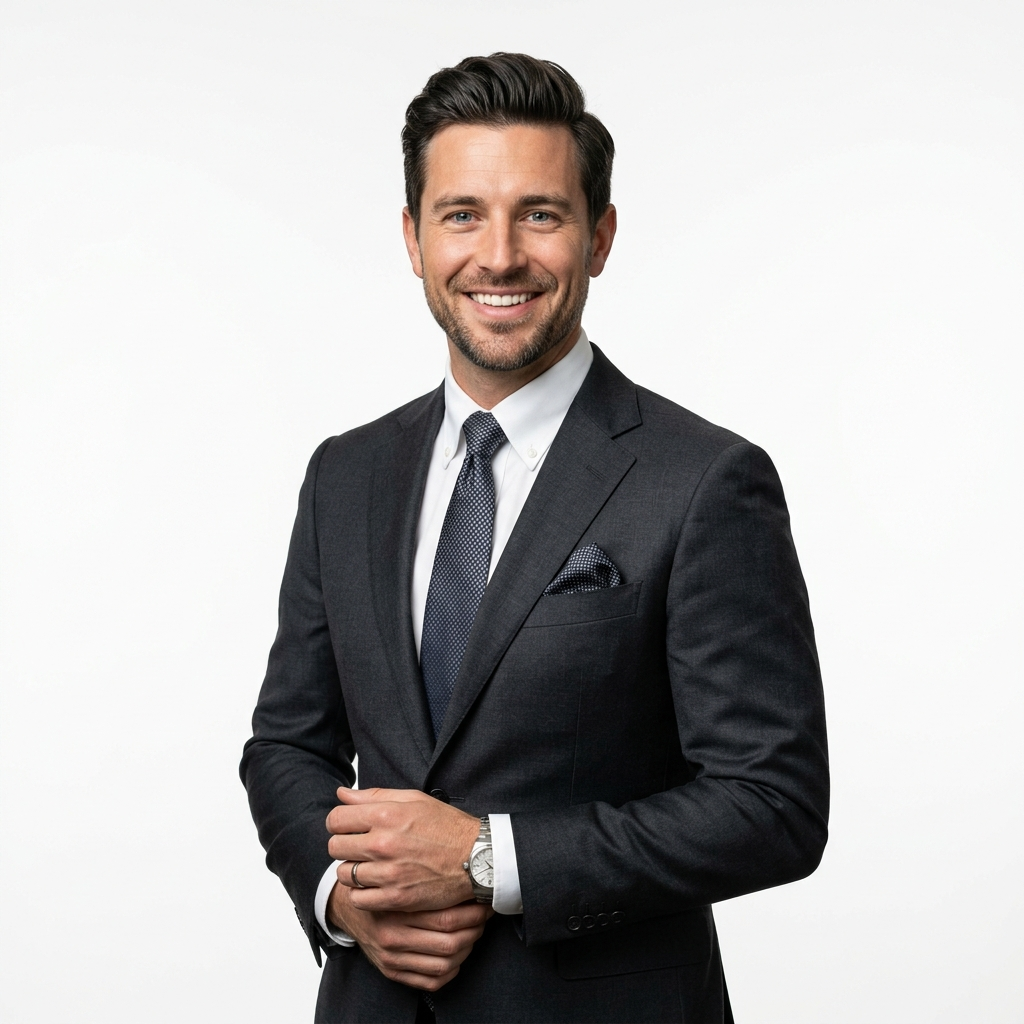
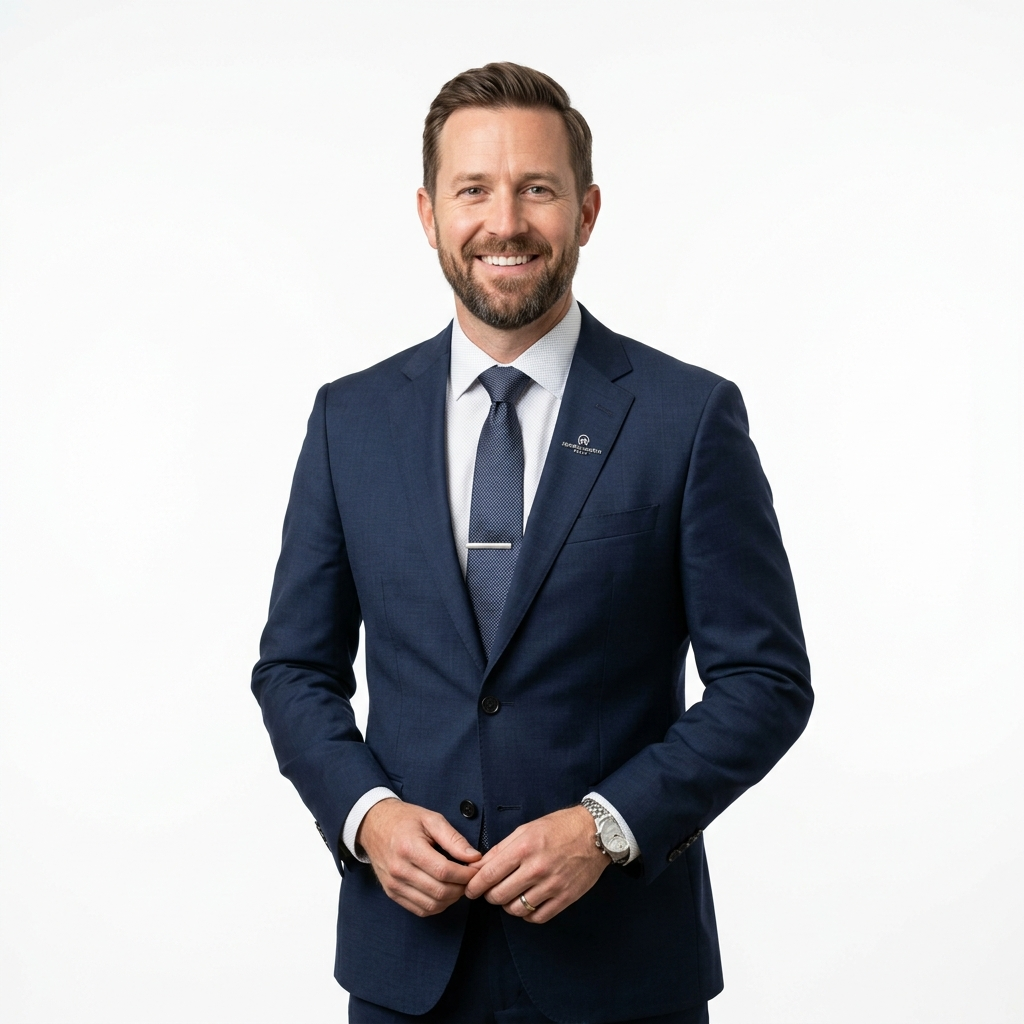
Overhaul advantage cards with lengthy portraits and CSS blend multiply to dissolve off-white backgrounds

Changed region(s): [[0.2188, 0.0312, 0.8125, 1.0]]

diff --git a/src/app/page.tsx b/src/app/page.tsx
@@ -467,7 +467,7 @@ export default function HomePage() {
                   <img
                     src="/images/robot_advisor_mascot.png"
                     alt="AI Robot Mascot"
-                    className="w-28 h-28 object-contain shrink-0 group-hover:scale-105 group-hover:-rotate-3 transition-transform duration-500"
+                    className="w-32 h-44 object-contain shrink-0 mix-blend-multiply group-hover:scale-105 group-hover:-rotate-3 transition-transform duration-500"
                   />
                 </div>
 
@@ -521,7 +521,7 @@ export default function HomePage() {
                   <img
                     src="/images/real_estate_advisor_portrait.png"
                     alt="Real Estate Expert"
-                    className="w-28 h-28 object-contain shrink-0 group-hover:scale-105 transition-transform duration-500"
+                    className="w-32 h-44 object-contain shrink-0 mix-blend-multiply group-hover:scale-105 transition-transform duration-500"
                   />
                 </div>
 
@@ -581,7 +581,7 @@ export default function HomePage() {
                   <img
                     src="/images/obsidian_pavilion.png"
                     alt="Modern Property"
-                    className="w-28 h-28 object-cover rounded-2xl shrink-0 border border-gray-100 group-hover:scale-105 transition-transform duration-500"
+                    className="w-32 h-44 object-cover rounded-2xl shrink-0 border border-gray-100 group-hover:scale-105 transition-transform duration-500"
                   />
                 </div>
 
